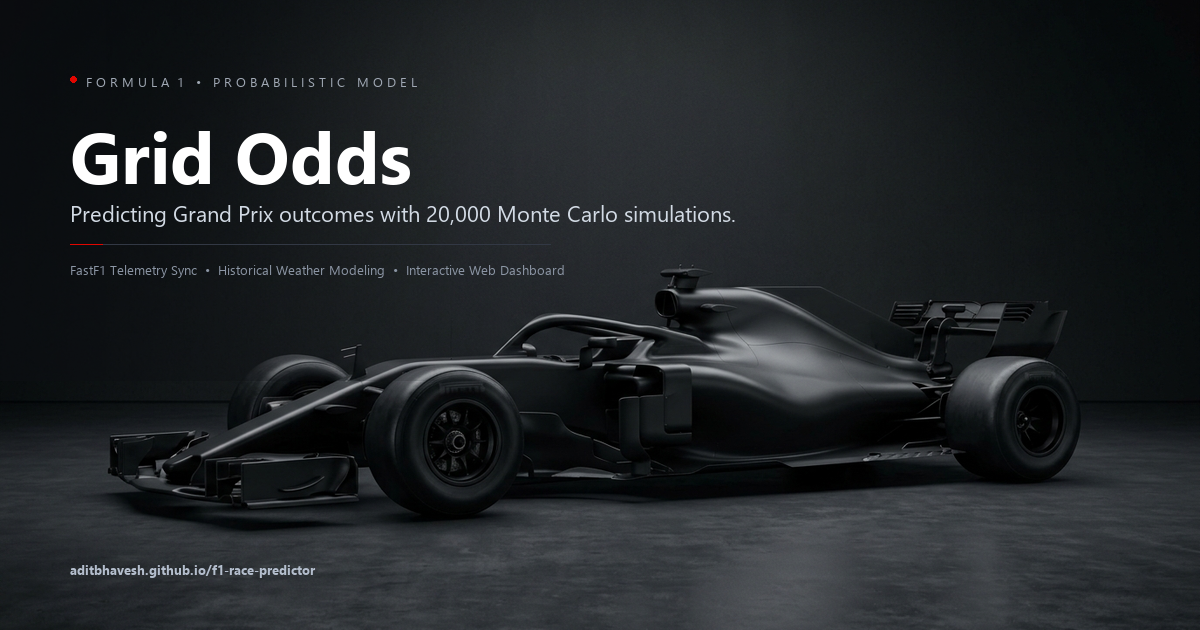
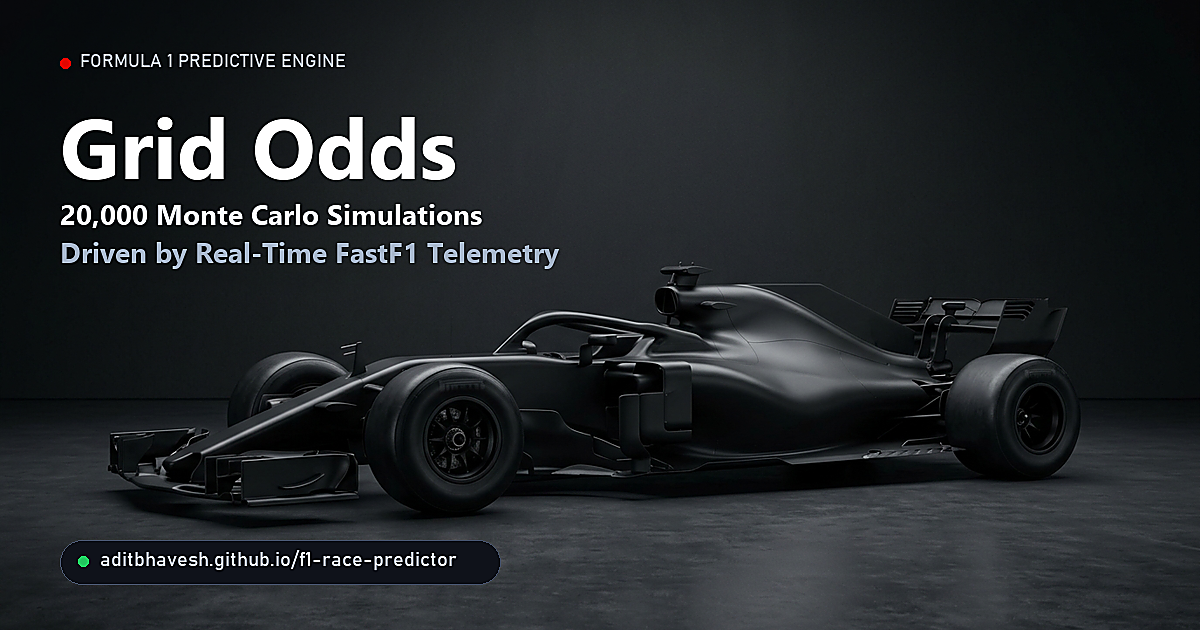
Eliminate Gaussian blur on car and scale up typography for razor-sharp social previews

diff --git a/dashboard/gridodds.html b/dashboard/gridodds.html
@@ -15,7 +15,7 @@
 <meta property="og:url" content="https://aditbhavesh.github.io/f1-race-predictor/">
 <meta property="og:title" content="Grid Odds — Formula 1 Race Outcome Predictor">
 <meta property="og:description" content="Probabilistic Formula 1 race outcome forecasting and in-browser Monte Carlo simulations, tested on 64 unseen Grands Prix with FastF1 timing data.">
-<meta property="og:image" content="https://aditbhavesh.github.io/f1-race-predictor/og-preview-v2.png">
+<meta property="og:image" content="https://aditbhavesh.github.io/f1-race-predictor/og-preview-v3.png">
 <meta property="og:image:width" content="1200">
 <meta property="og:image:height" content="630">
 <meta property="og:image:alt" content="Grid Odds — Formula 1 Race Outcome Predictor Dashboard">
@@ -26,7 +26,7 @@
 <meta property="twitter:url" content="https://aditbhavesh.github.io/f1-race-predictor/">
 <meta name="twitter:title" content="Grid Odds — Formula 1 Race Outcome Predictor">
 <meta name="twitter:description" content="Probabilistic Formula 1 race outcome forecasting and in-browser Monte Carlo simulations, tested on 64 unseen Grands Prix with FastF1 timing data.">
-<meta name="twitter:image" content="https://aditbhavesh.github.io/f1-race-predictor/og-preview-v2.png">
+<meta name="twitter:image" content="https://aditbhavesh.github.io/f1-race-predictor/og-preview-v3.png">
 <meta name="claude:viewport-fit-sides" content="cover">
 <link rel="preconnect" href="https://fonts.googleapis.com">
 <link rel="preconnect" href="https://fonts.gstatic.com" crossorigin>

diff --git a/dashboard/template.html b/dashboard/template.html
@@ -15,7 +15,7 @@
 <meta property="og:url" content="https://aditbhavesh.github.io/f1-race-predictor/">
 <meta property="og:title" content="Grid Odds — Formula 1 Race Outcome Predictor">
 <meta property="og:description" content="Probabilistic Formula 1 race outcome forecasting and in-browser Monte Carlo simulations, tested on 64 unseen Grands Prix with FastF1 timing data.">
-<meta property="og:image" content="https://aditbhavesh.github.io/f1-race-predictor/og-preview-v2.png">
+<meta property="og:image" content="https://aditbhavesh.github.io/f1-race-predictor/og-preview-v3.png">
 <meta property="og:image:width" content="1200">
 <meta property="og:image:height" content="630">
 <meta property="og:image:alt" content="Grid Odds — Formula 1 Race Outcome Predictor Dashboard">
@@ -26,7 +26,7 @@
 <meta property="twitter:url" content="https://aditbhavesh.github.io/f1-race-predictor/">
 <meta name="twitter:title" content="Grid Odds — Formula 1 Race Outcome Predictor">
 <meta name="twitter:description" content="Probabilistic Formula 1 race outcome forecasting and in-browser Monte Carlo simulations, tested on 64 unseen Grands Prix with FastF1 timing data.">
-<meta name="twitter:image" content="https://aditbhavesh.github.io/f1-race-predictor/og-preview-v2.png">
+<meta name="twitter:image" content="https://aditbhavesh.github.io/f1-race-predictor/og-preview-v3.png">
 <meta name="claude:viewport-fit-sides" content="cover">
 <link rel="preconnect" href="https://fonts.googleapis.com">
 <link rel="preconnect" href="https://fonts.gstatic.com" crossorigin>

diff --git a/index.html b/index.html
@@ -15,7 +15,7 @@
 <meta property="og:url" content="https://aditbhavesh.github.io/f1-race-predictor/">
 <meta property="og:title" content="Grid Odds — Formula 1 Race Outcome Predictor">
 <meta property="og:description" content="Probabilistic Formula 1 race outcome forecasting and in-browser Monte Carlo simulations, tested on 64 unseen Grands Prix with FastF1 timing data.">
-<meta property="og:image" content="https://aditbhavesh.github.io/f1-race-predictor/og-preview-v2.png">
+<meta property="og:image" content="https://aditbhavesh.github.io/f1-race-predictor/og-preview-v3.png">
 <meta property="og:image:width" content="1200">
 <meta property="og:image:height" content="630">
 <meta property="og:image:alt" content="Grid Odds — Formula 1 Race Outcome Predictor Dashboard">
@@ -26,7 +26,7 @@
 <meta property="twitter:url" content="https://aditbhavesh.github.io/f1-race-predictor/">
 <meta name="twitter:title" content="Grid Odds — Formula 1 Race Outcome Predictor">
 <meta name="twitter:description" content="Probabilistic Formula 1 race outcome forecasting and in-browser Monte Carlo simulations, tested on 64 unseen Grands Prix with FastF1 timing data.">
-<meta name="twitter:image" content="https://aditbhavesh.github.io/f1-race-predictor/og-preview-v2.png">
+<meta name="twitter:image" content="https://aditbhavesh.github.io/f1-race-predictor/og-preview-v3.png">
 <meta name="claude:viewport-fit-sides" content="cover">
 <link rel="preconnect" href="https://fonts.googleapis.com">
 <link rel="preconnect" href="https://fonts.gstatic.com" crossorigin>
